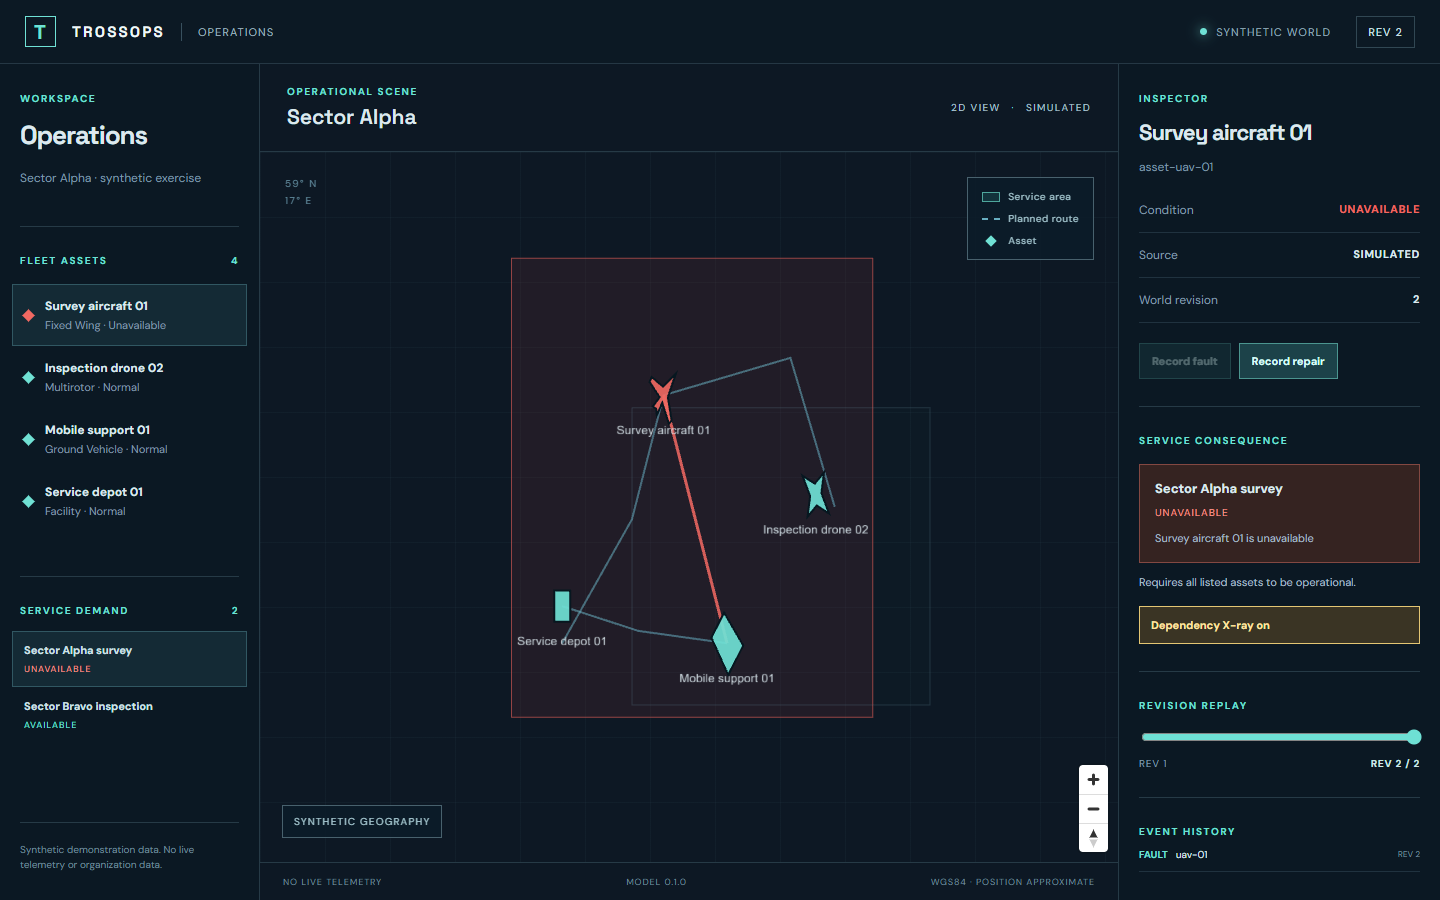
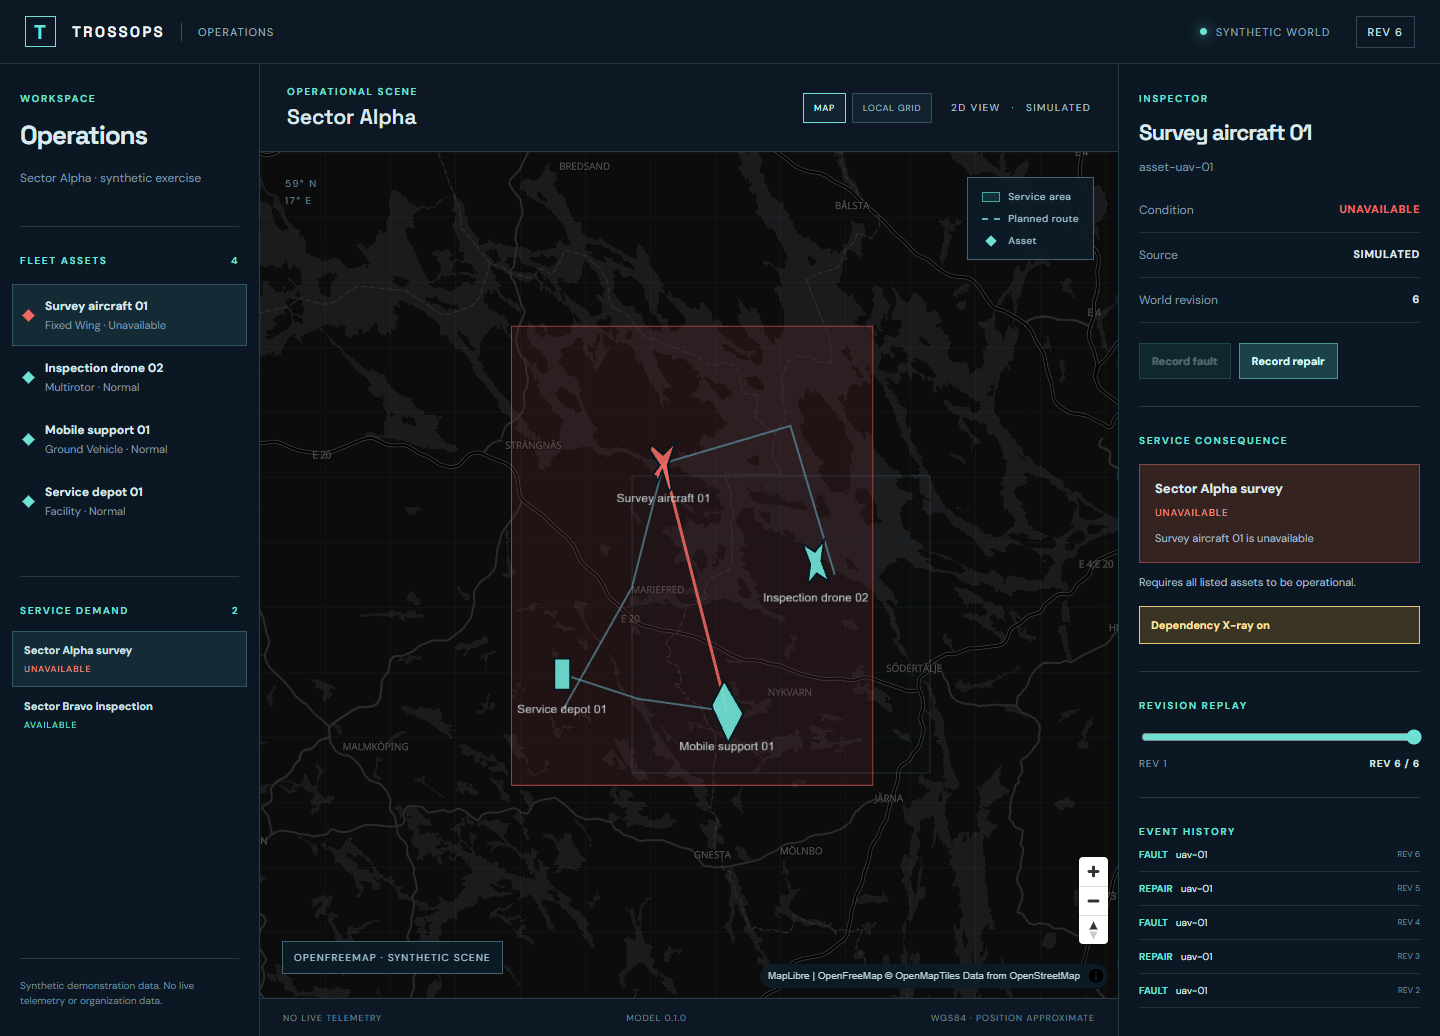
docs(map): record basemap terms and fallback evidence

diff --git a/docs/geospatial/verification.md b/docs/geospatial/verification.md
@@ -7,14 +7,15 @@
 - `cd backend; python -m pytest -q`: **2 passed**. A synthetic support fault changes revision and both computed services; revision 1 replays its prior state; health and scene endpoints respond.
 - `cd frontend; npm.cmd run build`: **passed** with MapLibre GL JS 6.14.0. Vite reports a large 2.19 MB main JS chunk; bundle splitting remains open.
 - `cd frontend; npm.cmd audit --json`: **0 vulnerabilities** after updating MapLibre from 5.x.
-- `cd frontend; node scripts/verify-local.mjs`: **passed** in installed Edge. Page errors: **0**. Verified scene load, service selection, dependency control, fault command, service change, revision replay, return to latest, and screenshots.
+- `cd frontend; node scripts/verify-local.mjs`: **passed** in installed Edge. Page errors: **0**. Verified online basemap rendering, scene load, service selection, dependency control, fault command, service change, revision replay, return to latest, and forced tile-failure fallback.
 - Direct HTTP through Vite proxy: revision 1 available → support fault revision 2 unavailable with blocker → repair revision 3 available.
 
 ## Artifacts
 
 - [Initial scene](local-browser.png)
 - [Fault and dependency view](local-browser-fault.png)
+- [Tile-failure local fallback](local-browser-fallback.png)
 
 ## Limits
 
-The browser check exercises the synthetic in-memory API. It does not verify persistence, real telemetry, external tiles, 3D, multi-user consistency, frame time, or production deployment. No FPS claim is made. The browser script assumes Edge is installed at the standard Windows path.
+The browser check exercises the synthetic in-memory API and public OpenFreeMap tiles. It does not verify persistence, real telemetry, 3D, multi-user consistency, frame time, or production deployment. No FPS claim is made. The browser script assumes Edge is installed at the standard Windows path.

diff --git a/docs/geospatial/integration-matrix.md b/docs/geospatial/integration-matrix.md
@@ -4,7 +4,9 @@
 |---|---|---|
 | Synthetic scene API | partial | Snapshot, revision checked commands, and deterministic replay; add persistence and bitemporal semantics. |
 | Service consequence | partial | Backend computes two services with a shared support dependency; extend to capacity/temporal reasoning and tests. |
-| MapLibre/deck scene | partial | GPU silhouettes, planned paths, selectable service areas, dependency toggle, revision replay, and selection verified in Edge; add licensed geography, LOD, and performance measurements. |
+| MapLibre/deck scene | partial | GPU silhouettes, planned paths, selectable service areas, dependency toggle, revision replay, and selection verified in Edge; add LOD and performance measurements. |
+| OpenFreeMap basemap | working | Dark style loaded in Edge with attribution; public provider has no SLA. |
+| Local grid fallback | working | Forced tile request failure switched to local scene in Edge. |
 | Asset/ERP records | planned | Define authorized resource API; current `resourceId` is synthetic only. |
 | NATS / SpacetimeDB | planned | Connect only after source and projection contracts exist. |
 | Telemetry | planned | Add authorized adapter, timestamp/freshness contract, and end-to-end test. |

diff --git a/docs/geospatial/styles.md b/docs/geospatial/styles.md
@@ -1,0 +1,9 @@
+# Basemap styles and attribution
+
+The online mode uses [OpenFreeMap's dark MapLibre style](https://tiles.openfreemap.org/styles/dark), checked live on 16 October 2026. The provider's [quick start](https://openfreemap.org/quick_start/) lists the dark style and MapLibre setup. [OpenFreeMap](https://openfreemap.org/) permits website and commercial use without a key and requires attribution. MapLibre displays the style's OpenFreeMap, OpenMapTiles, and OpenStreetMap attribution in the map control.
+
+The local-grid mode is a bundled empty MapLibre style plus a UI grid; it works without a tile service and deliberately does not imply real geographic context. If the online style errors, the client switches to this local mode. The user may also switch modes explicitly.
+
+OpenFreeMap's public instance has no SLA. No OpenFreeMap tiles are bundled or redistributed in this repository. Its documented offline download limit is 3,000 tiles or 50 MB per download, with no more than four parallel requests; this project does not perform offline tile downloads.
+
+All service polygons, planned routes, and asset positions are synthetic TrossOps scenario content supplied by the API. They are separate from OpenStreetMap data.

diff --git a/docs/decisions/ADR-001-geospatial-renderers.md b/docs/decisions/ADR-001-geospatial-renderers.md
@@ -2,6 +2,6 @@
 
 Status: accepted for initial implementation.
 
-Use MapLibre GL JS for projection and camera, with deck.gl's MapboxOverlay in overlaid mode for GPU entity silhouettes and labels. The initial style contains no external tile source, keeping the synthetic scene reproducible without keys or unverified map licenses. Overlaid mode avoids untested interleaved depth behavior. Verify visual alignment in a browser before switching to interleaved mode.
+Use MapLibre GL JS for projection and camera, with deck.gl's MapboxOverlay in overlaid mode for GPU entity silhouettes and labels. The default online style is OpenFreeMap Dark, with MapLibre attribution visible. A bundled empty style supplies the local-grid fallback without keys or tiles. Both modes were checked in Edge; overlaid mode preserves overlay alignment when switching. Interleaved depth behavior remains untested.
 
 Cesium remains planned as a separately loaded 3D mode after the shared scene contract, altitude semantics, and suitable licensed terrain/assets exist. The current environment has no such assets or keys. This decision follows the geospatial brief's ordering: a working primary map precedes immersive 3D.

diff --git a/docs/geospatial/baseline.md b/docs/geospatial/baseline.md
@@ -14,7 +14,7 @@ The repository began as an empty clone with instructions, a README, and the geos
 ## Risks and limitations
 
 - State is process memory; restart resets the scenario. Revision replay works, while multi-user persistence is planned.
-- The map uses an empty local style and synthetic positions. Licensed basemap/terrain and actual vector geography are planned.
+- The map has a verified OpenFreeMap dark basemap with attribution and a local-grid fallback. Synthetic positions and overlays are not actual operational geography. Terrain and offline vector geography remain planned.
 - Entity silhouettes are GPU polygons, not geodetically sized models. GLB assets and LOD are planned.
 - No telemetry, ERP, SpacetimeDB, NATS, Cesium, external tiles, or live integrations are connected.
 - No pre-existing screenshot existed. The new local browser screenshots and executed checks are recorded in [verification](verification.md).
